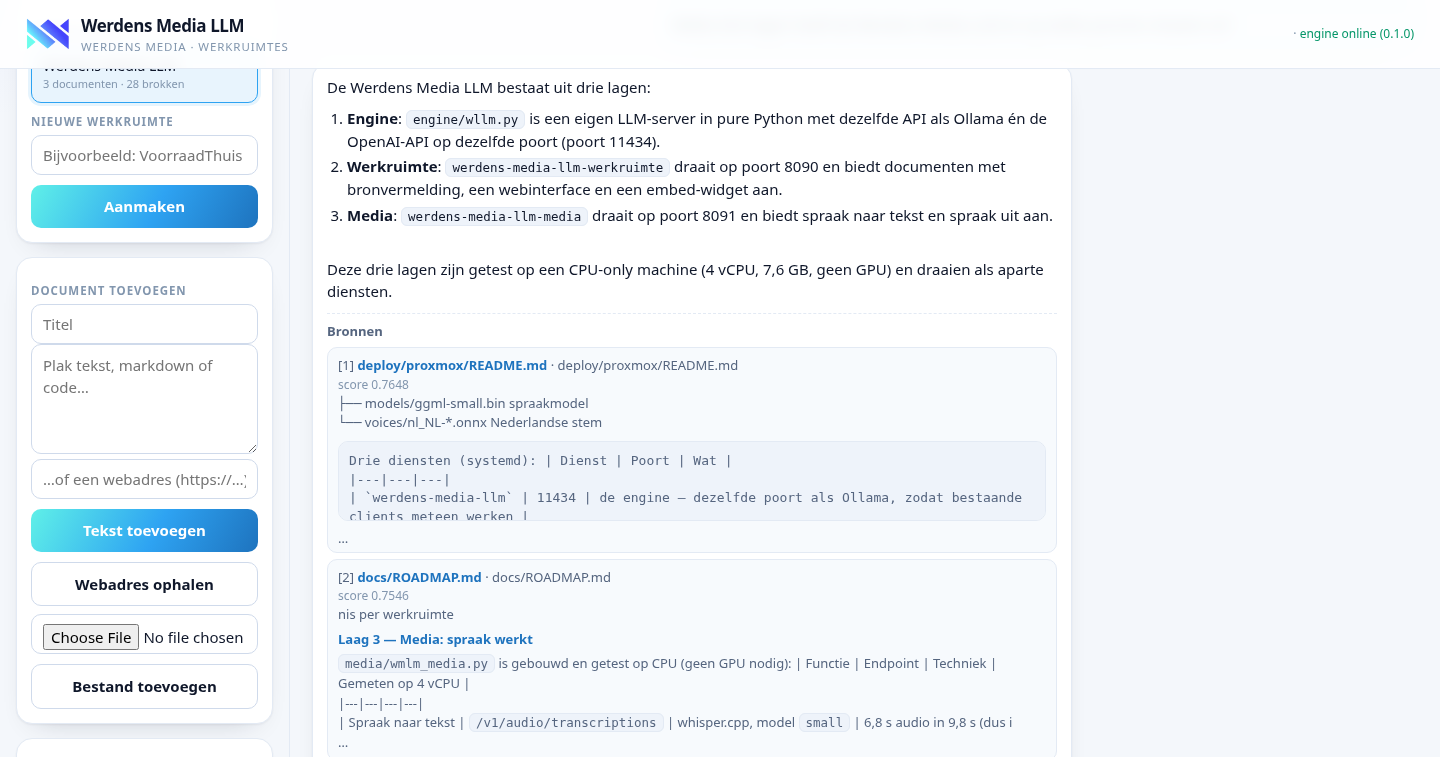
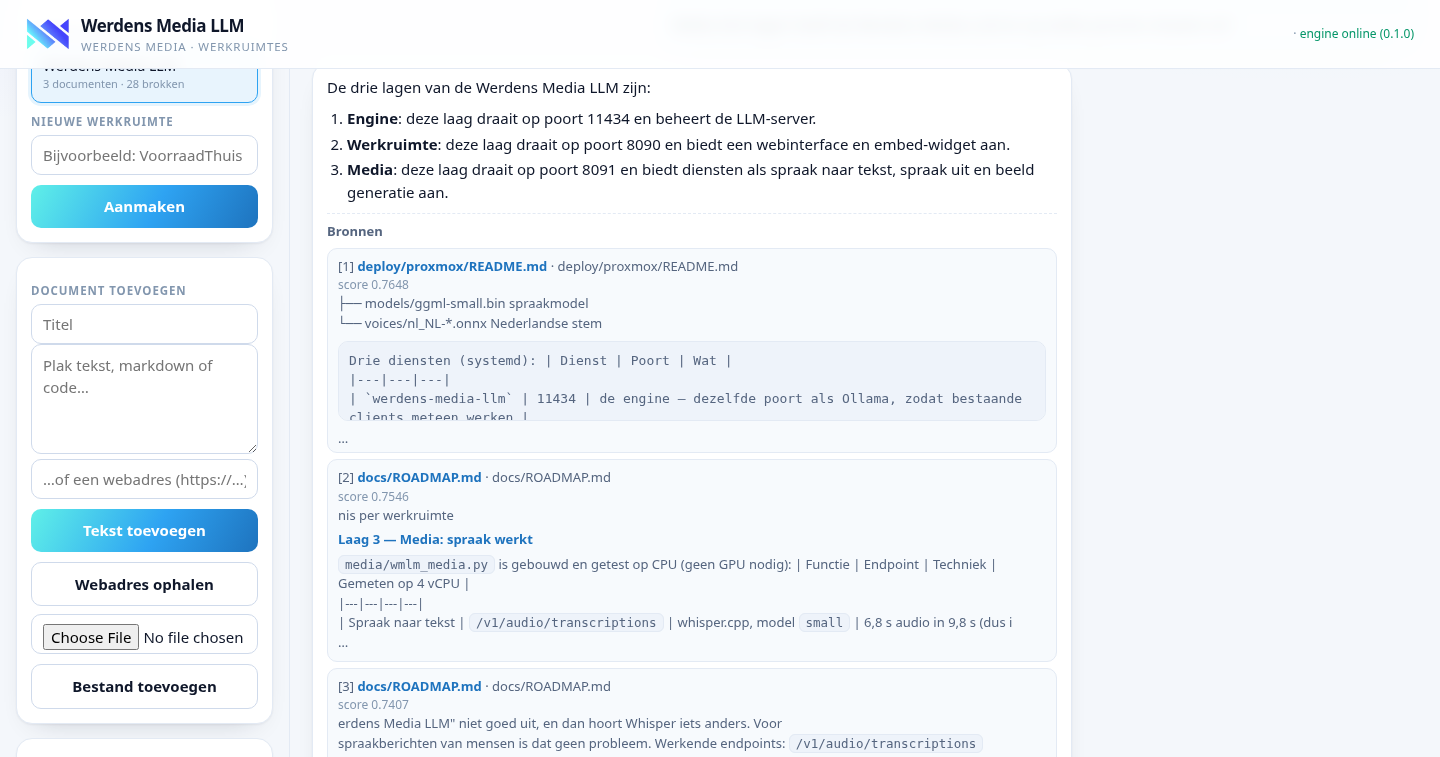
Meer beeldmateriaal, mobiele weergave en een werkende widget-voorbeeldpagina
De README laat nu zeven opnamen zien in plaats van vier: de drie lagen, het
antwoord met bronnen, de werkruimte op een telefoon, spraak uit met de speler
eronder en de embed-widget op een gewone website.

Daarvoor is docs/embed-voorbeeld.html toegevoegd: een voorbeeldpagina in de
huisstijl met één regel script erin, zodat je de widget meteen kunt bekijken en
overnemen.

De werkruimte en de engine hadden geen media-query: op een telefoon bleven de twee
kolommen naast elkaar staan en liep de statustekst over de kop. Onder 820 pixels
klapt de werkruimte naar één kolom en onder 640 pixels stapelen de labels van de
engine zich, net als in Werdens Monitor.

De opnames zijn opnieuw gemaakt; scripts/screenshots.js neemt de nieuwe beelden
zelf mee.

Changed region(s): [[0.2188, 0.1519, 0.7188, 0.5773], [0.2188, 0.6077, 0.7188, 1.0], [0.25, 0.0911, 0.4375, 0.1215]]

diff --git a/docs/embed-voorbeeld.html b/docs/embed-voorbeeld.html
@@ -1,0 +1,61 @@
+<!doctype html>
+<html lang="nl">
+<head>
+<meta charset="utf-8">
+<meta name="viewport" content="width=device-width, initial-scale=1">
+<title>Voorbeeldpagina met de Werdens Media LLM-widget</title>
+<style>
+  :root{
+    --bg:#f4f7fb; --pane:#ffffff; --line:#e3eaf4; --line2:#cfdaeb;
+    --txt:#0f172a; --muted:#55657f; --muted2:#8296ae;
+    --accent:#2ea3f2; --accent-d:#1e73be;
+    --merk:linear-gradient(118deg,#5ff0e8 0%,#2ea3f2 55%,#1e73be 100%);
+    --r:16px; --schaduw:0 1px 2px rgba(15,23,42,.05),0 12px 28px -20px rgba(15,23,42,.3);
+    --font:"Inter",-apple-system,BlinkMacSystemFont,"Segoe UI",Roboto,"Helvetica Neue",Arial,sans-serif;
+  }
+  *{box-sizing:border-box}
+  body{margin:0;min-height:100vh;color:var(--txt);font:15px/1.5 var(--font);
+    background:radial-gradient(1100px 520px at 90% -10%,rgba(95,240,232,.12),transparent 62%),
+               radial-gradient(900px 480px at -8% -4%,rgba(74,76,248,.08),transparent 58%),var(--bg)}
+  header.kop{display:flex;align-items:center;gap:11px;padding:14px 26px;background:rgba(255,255,255,.88);
+    border-bottom:1px solid var(--line)}
+  .logo{width:40px;height:40px}
+  .logo img{width:100%;height:100%;object-fit:contain;display:block}
+  .naam{font-weight:700;font-size:17px;letter-spacing:-.025em}
+  .sub{font-size:11.5px;color:var(--muted2);letter-spacing:.08em;text-transform:uppercase}
+  nav{margin-left:auto;display:flex;gap:18px;font-size:14px;color:var(--muted)}
+  main{max-width:900px;margin:0 auto;padding:44px 26px 90px}
+  h1{font-size:34px;letter-spacing:-.03em;margin:0 0 10px}
+  .streep{height:3px;width:64px;border-radius:3px;background:var(--merk);margin:0 0 22px}
+  p{color:var(--muted);max-width:62ch}
+  .kaarten{display:grid;grid-template-columns:1fr 1fr 1fr;gap:14px;margin-top:26px}
+  .kaart{background:var(--pane);border:1px solid var(--line);border-radius:var(--r);
+    box-shadow:var(--schaduw);padding:16px 18px}
+  .kaart h2{margin:0 0 6px;font-size:15px}
+  .kaart p{margin:0;font-size:13px}
+</style>
+</head>
+<body>
+<header class="kop">
+  <span class="logo"><img src="../assets/werdens-media-logo.png" alt="Werdens Media"></span>
+  <div><div class="naam">Mijn website</div><div class="sub">voorbeeldpagina</div></div>
+  <nav><span>Home</span><span>Diensten</span><span>Contact</span></nav>
+</header>
+<main>
+  <h1>Een eigen website</h1>
+  <div class="streep"></div>
+  <p>Deze pagina doet alsof hij van jou is. Onderaan rechts hangt de widget van de
+     Werdens Media LLM: één regel script en je bezoekers kunnen vragen stellen die
+     met jouw eigen documenten worden beantwoord, met de bronnen erbij.</p>
+  <div class="kaarten">
+    <div class="kaart"><h2>Eigen documenten</h2><p>Antwoorden komen uit jouw teksten, niet uit het hoofd van een model.</p></div>
+    <div class="kaart"><h2>Met bronvermelding</h2><p>Onder elk antwoord staat welk fragment is gebruikt.</p></div>
+    <div class="kaart"><h2>Alles lokaal</h2><p>Geen abonnement, geen tokenkosten, geen gegevens naar buiten.</p></div>
+  </div>
+</main>
+
+<!-- Eén regel: hier komt de widget van de Werdens Media LLM. -->
+<script src="http://127.0.0.1:8090/widget.js"
+        data-werkruimte="werdens-media-llm" data-kleur="#2ea3f2"></script>
+</body>
+</html>

diff --git a/scripts/screenshots.js b/scripts/screenshots.js
@@ -156,6 +156,43 @@ async function haalDoel(poort) {
   await wacht(500);
   await schiet('laag-3-media');
 
+  // 5. Spraak uit met een echt resultaat: op de knop drukken en wachten tot het
+  //    audiobestand klaar is, zodat de speler en de tekst in beeld staan.
+  console.log('spraak uit proberen (Piper)');
+  await js(`(() => { const b = document.querySelector('#spreek'); if (b) b.click(); return true; })()`);
+  let s2 = '';
+  for (let i = 0; i < 40; i++) {
+    await wacht(700);
+    s2 = await js(`(() => { const e = document.querySelector('#s2'); return e ? e.innerText : ''; })()`);
+    if (s2 && /klaar|seconden|gesproken/i.test(s2)) break;
+  }
+  console.log(`  status: ${s2.slice(0, 70)}`);
+  await wacht(600);
+  await schiet('laag-3-spraak');
+
+  // 6. De embed-widget op een gewone website (docs/embed-voorbeeld.html).
+  console.log('embed-widget');
+  const voorbeeld = path.join(__dirname, '..', 'docs', 'embed-voorbeeld.html');
+  await ga('file://' + voorbeeld, 2500);
+  await js(`(() => {
+    const b = [...document.querySelectorAll('button')].find(x => /assistent/i.test(x.textContent));
+    if (b) b.click();
+    return true;
+  })()`);
+  await wacht(3500);
+  await schiet('embed-widget');
+
+  // 7. De werkruimte op een telefoon (het dashboard is mobiel-eerste).
+  console.log('werkruimte op mobiel (390x844)');
+  await stuur('Emulation.setDeviceMetricsOverride', {
+    width: 390, height: 844, deviceScaleFactor: 2, mobile: true,
+  });
+  await ga(`${BASIS}:8090/`, 3000);
+  await js(`(() => { if (typeof kies === 'function') kies(${JSON.stringify(WERKRUIMTE)}); return true; })()`);
+  await wacht(2000);
+  await schiet('mobiel-werkruimte');
+  await stuur('Emulation.clearDeviceMetricsOverride');
+
   ws.close();
   chrome.kill('SIGKILL');
   // Het profiel opruimen mag nooit de hele run laten mislukken.

diff --git a/engine/wllm.py b/engine/wllm.py
@@ -1026,6 +1026,13 @@ class Handler(BaseHTTPRequestHandler):
             ".tabel .naam{font-family:var(--mono);color:var(--accent-d);font-weight:600}"
             ".grijs{color:var(--muted2)}"
             "footer{padding:0 26px 34px;color:var(--muted2);font-size:13px}"
+            # Op een telefoon passen de labels niet naast de waarden.
+            "@media(max-width:640px){"
+            "main{padding:16px 16px 30px}"
+            "dl{grid-template-columns:1fr;gap:2px}dt{margin-top:8px}"
+            "header.kop{flex-wrap:wrap;gap:8px}"
+            ".kop-rechts{margin-left:0;width:100%}"
+            ".kaart-body{padding:14px}}"
             "</style></head><body>"
             "<header class=\"kop\"><div class=\"merk\">"
             "<span class=\"logo\"><img src=\"/logo.png\" alt=\"Werdens Media\" "

diff --git a/workspace/wmlm_workspace.py b/workspace/wmlm_workspace.py
@@ -684,6 +684,16 @@ PAGINA = """<!doctype html>
   .fragment{font-size:13px;color:var(--muted);white-space:normal;max-height:150px;overflow:hidden}
   .fragment p{margin:0 0 5px}
   .fragment pre{max-height:80px}
+  /* Op een telefoon: één kolom en een rustige kop, zoals in Werdens Monitor. */
+  @media(max-width:820px){
+    main{grid-template-columns:1fr}
+    aside{border-right:0;border-bottom:1px solid var(--line)}
+    section{padding:14px 16px}
+    header.kop{flex-wrap:wrap;gap:8px}
+    .merk .sub{display:none}
+    .kop-rechts{margin-left:0;width:100%}
+    .msg{max-width:100%}
+  }
 </style></head><body>
 <header class="kop">
   <div class="merk">

diff --git a/README.md b/README.md
@@ -48,10 +48,25 @@ En het antwoord, met de bronnen eronder en de score per bron:
 
 ![Antwoord met bronvermelding](docs/img/laag-2-antwoord.png)
 
+Op een telefoon klapt hetzelfde scherm naar één kolom:
+
+![De werkruimte op een telefoon](docs/img/mobiel-werkruimte.png)
+
 **De medialaag** (poort 8091) — spraak naar tekst en spraak uit met een
 Nederlandse stem:
 
 ![De medialaag](docs/img/laag-3-media.png)
+
+En hier is echt iets voorgelezen: 7,5 seconden spraak in 0,92 seconden — acht keer
+sneller dan realtime, op de CPU.
+
+![Spraak uit met Piper](docs/img/laag-3-spraak.png)
+
+**De embed-widget** — één regel script op je eigen site, met antwoorden uit jouw
+documenten en de bronnen erbij. Een werkende voorbeeldpagina staat in
+`docs/embed-voorbeeld.html`.
+
+![De embed-widget op een gewone website](docs/img/embed-widget.png)
 
 **Een rondleiding in beeld** (echte opname, inclusief de wachttijd op een
 antwoord — op een CPU duurt dat ongeveer anderhalve minuut):
